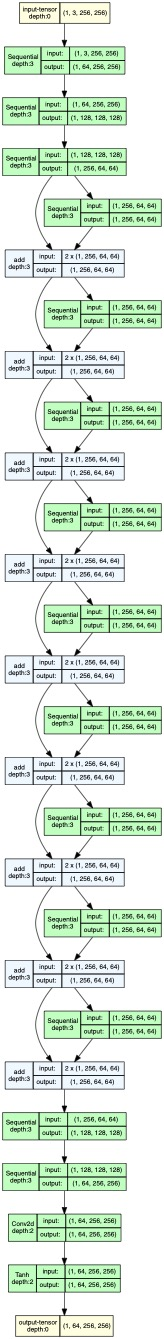
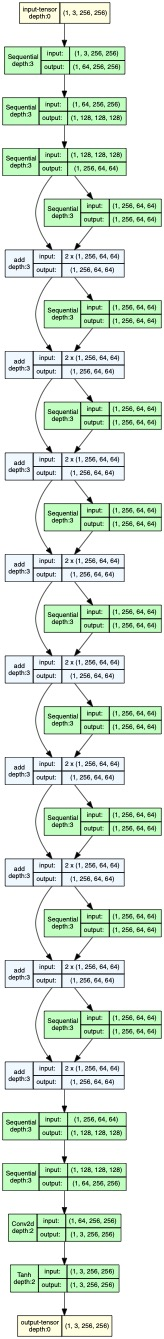
bug fixed -2 #17

Changed region(s): [[0.0305, 0.9186, 0.7622, 1.0]]

diff --git a/src/generator.py b/src/generator.py
@@ -18,11 +18,12 @@ from residual_block import ResidualBlock
 
 
 class Generator(nn.Module):
-    def __init__(self, in_channels=3):
+    def __init__(self, in_channels=3, out_channels=3):
         super(Generator, self).__init__()
 
         self.in_channels = in_channels
         self.out_channels = 64
+        self.last_channels = out_channels
 
         self.kernel = 7
         self.stride = 1
@@ -73,7 +74,7 @@ class Generator(nn.Module):
         self.output = nn.Sequential(
             nn.Conv2d(
                 in_channels=self.out_channels * 2,
-                out_channels=self.in_channels,
+                out_channels=self.last_channels,
                 kernel_size=self.kernel,
                 stride=self.stride,
                 padding=self.padding,
@@ -115,6 +116,6 @@ if __name__ == "__main__":
     draw_graph(
         model=netG, input_data=torch.randn((1, 3, 256, 256))
     ).visual_graph.render(
-        filename=os.path.join(config_files["path"]["files_path"], "netG1_model"),
+        filename=os.path.join(config_files["path"]["files_path"], "netG_model"),
         format="jpeg",
     )

diff --git a/unittest/unit-test.py b/unittest/unit-test.py
@@ -6,6 +6,7 @@ import torch
 sys.path.append("src/")
 
 from utils import config, load
+from generator import Generator
 
 
 class UnitTest(unittest.TestCase):
@@ -19,6 +20,7 @@ class UnitTest(unittest.TestCase):
         self.dataloader = load(
             os.path.join(config()["path"]["processed_path"], "dataloader.pkl")
         )
+        self.netG = Generator(in_channels=3)
 
     def test_train_dataloader_shape(self):
         data, mask = next(iter(self.train_dataloader))
@@ -55,6 +57,11 @@ class UnitTest(unittest.TestCase):
         self.assertEqual(
             7,
             sum(data.size(0) for data, _ in self.test_dataloader),
+        )
+
+    def test_netG_shape(self):
+        self.assertEqual(
+            self.netG(torch.randn(1, 3, 256, 256)).size(), torch.Size([1, 3, 256, 256])
         )
 
 
